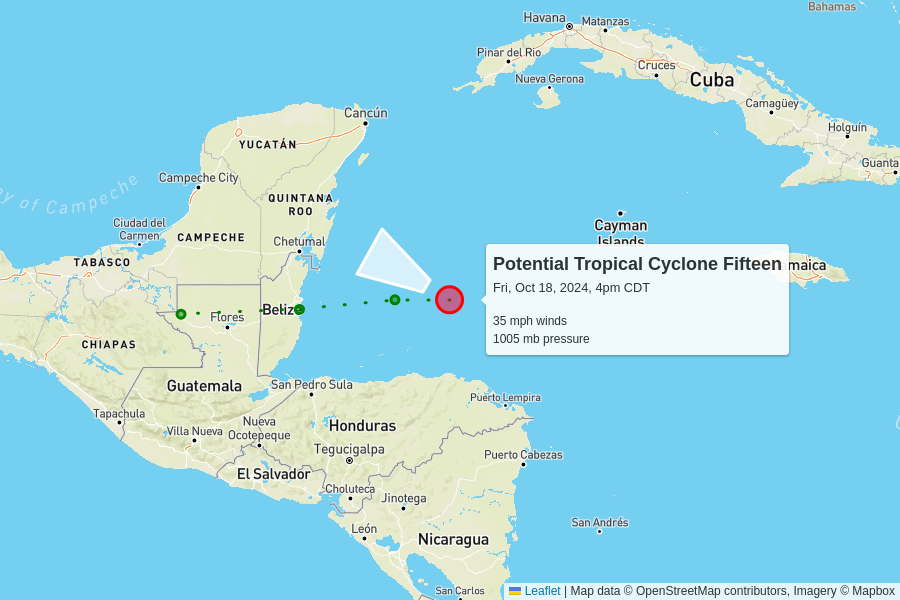
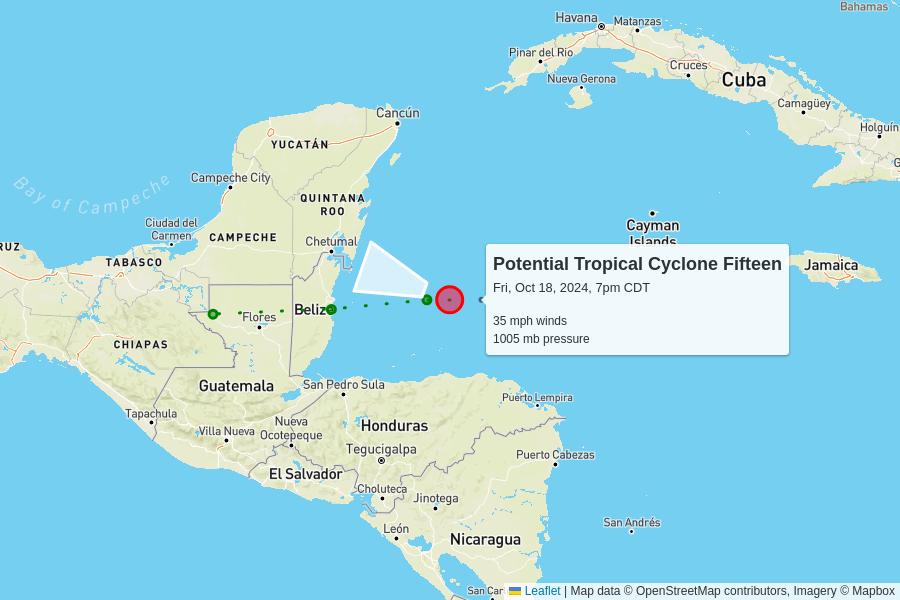
automatic update

diff --git a/docs/index.html b/docs/index.html
@@ -102,7 +102,7 @@
         <td colspan="6" class="storm category-0" >
           <h2>
             Potential Tropical Cyclone Fifteen
-            <p class="updated">last updated <span data-time>2024-10-18T21:00:00.000Z</span></p>
+            <p class="updated">last updated <span data-time>2024-10-19T00:00:00.000Z</span></p>
           </h2>
         </td>
       </tr>
@@ -117,12 +117,12 @@
       </tr>
       <tr>
         <td class="spacer"></td>
-        <td>35 mph</td>
-        <td>1005 mb</td>
+        <td>35 mph<br>0 mph since last update</td>
+        <td>1005 mb<br>0 mb since last update</td>
         <td>
           7 mph to the west-northwest
           <br/>
-          <span style="display: inline-block; font-size: 1.5em; transform: rotate(300deg);">↑</span>
+          <span style="display: inline-block; font-size: 1.5em; transform: rotate(290deg);">↑</span>
         </td>
         <td><a href="https://raw.githubusercontent.com/mgwalker/atlantic-hurricanes/main/data/csv/AL152024.csv">AL152024.csv</a></td>
         <td><a href="https://www.nhc.noaa.gov/archive/2024/FIFTEEN.shtml?">NHC advisories</a></td>
